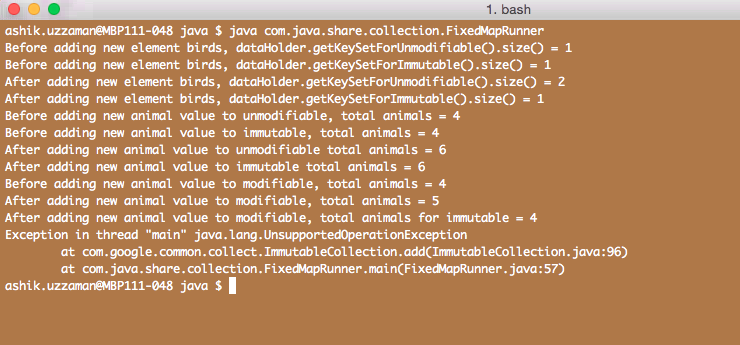
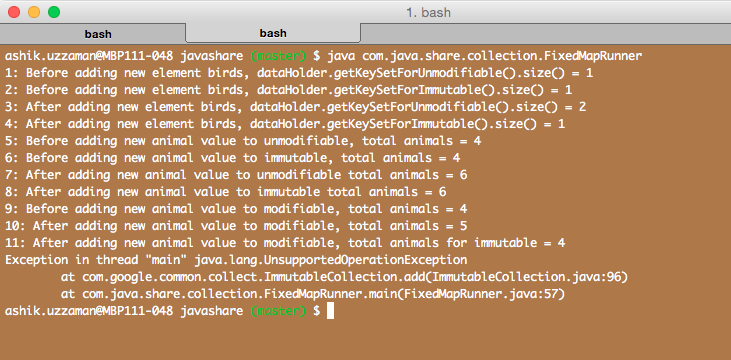
added line numbers in printt statements

diff --git a/FixedMapRunner.java b/FixedMapRunner.java
@@ -25,38 +25,38 @@ public class FixedMapRunner {
 		birds.add("crow");
 
 		// test the size of the maps
-		System.out.println("Before adding new element birds, dataHolder.getKeySetForUnmodifiable().size() = " + dataHolder.getKeySetForUnmodifiable().size());
-		System.out.println("Before adding new element birds, dataHolder.getKeySetForImmutable().size() = " + dataHolder.getKeySetForImmutable().size());
+		System.out.println("1: Before adding new element birds, dataHolder.getKeySetForUnmodifiable().size() = " + dataHolder.getKeySetForUnmodifiable().size());
+		System.out.println("2: Before adding new element birds, dataHolder.getKeySetForImmutable().size() = " + dataHolder.getKeySetForImmutable().size());
 	
 		dataHolder.getModifiableMap().put("birds", birds);
 	
-		System.out.println("After adding new element birds, dataHolder.getKeySetForUnmodifiable().size() = " + dataHolder.getKeySetForUnmodifiable().size());
-		System.out.println("After adding new element birds, dataHolder.getKeySetForImmutable().size() = " + dataHolder.getKeySetForImmutable().size());
+		System.out.println("3: After adding new element birds, dataHolder.getKeySetForUnmodifiable().size() = " + dataHolder.getKeySetForUnmodifiable().size());
+		System.out.println("4: After adding new element birds, dataHolder.getKeySetForImmutable().size() = " + dataHolder.getKeySetForImmutable().size());
 
 		// test the values/contents of the maps 
-		System.out.println("Before adding new animal value to unmodifiable, total animals = " + dataHolder.getUnmodifiable("animals").size());
-		System.out.println("Before adding new animal value to immutable, total animals = " + dataHolder.getImmutable("animals").size());
+		System.out.println("5: Before adding new animal value to unmodifiable, total animals = " + dataHolder.getUnmodifiable("animals").size());
+		System.out.println("6: Before adding new animal value to immutable, total animals = " + dataHolder.getImmutable("animals").size());
 	
 		dataHolder.getUnmodifiable("animals").add("tiger");
 		dataHolder.getImmutable("animals").add("elephant");
 	
-		System.out.println("After adding new animal value to unmodifiable total animals = " + dataHolder.getUnmodifiable("animals").size());
-		System.out.println("After adding new animal value to immutable total animals = " + dataHolder.getImmutable("animals").size());
+		System.out.println("7: After adding new animal value to unmodifiable total animals = " + dataHolder.getUnmodifiable("animals").size());
+		System.out.println("8: After adding new animal value to immutable total animals = " + dataHolder.getImmutable("animals").size());
 
 		// test the values/contents of the maps with truly fixed content map
 		dataHolder = new FixedContentMap();
 		dataHolder.populateData();
 
-		System.out.println("Before adding new animal value to modifiable, total animals = " + dataHolder.getModifiableMap().get("animals").size());
+		System.out.println("9: Before adding new animal value to modifiable, total animals = " + dataHolder.getModifiableMap().get("animals").size());
 
 		dataHolder.getModifiableMap().get("animals").add("monkey");
 
-		System.out.println("After adding new animal value to modifiable, total animals = " + dataHolder.getModifiableMap().get("animals").size());
-		System.out.println("After adding new animal value to modifiable, total animals for immutable = " + dataHolder.getImmutable("animals").size());
+		System.out.println("10: After adding new animal value to modifiable, total animals = " + dataHolder.getModifiableMap().get("animals").size());
+		System.out.println("11: After adding new animal value to modifiable, total animals for immutable = " + dataHolder.getImmutable("animals").size());
 
 		dataHolder.getImmutable("animals").add("zebra");
 
-		System.out.println("After adding new animal value to immutable total animals = " + dataHolder.getImmutable("animals").size());
+		System.out.println("12: After adding new animal value to immutable total animals = " + dataHolder.getImmutable("animals").size());
 
 	}
 
